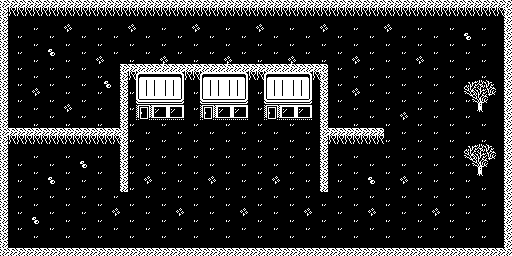
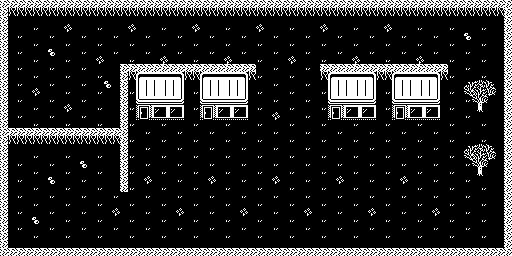
more level work

Changed region(s): [[0.5, 0.25, 0.875, 0.75], [0.7188, 0.6875, 0.75, 0.7188]]

diff --git a/VLQP_AB/level.h b/VLQP_AB/level.h
@@ -321,7 +321,7 @@ PROGMEM const unsigned char maps[16][16] = {
   }, {
     // map 02
     0x01, 0x11, 0x11, 0x12,
-    0x35, 0xFF, 0xF3, 0x4E,
+    0x35, 0xFF, 0x4F, 0xFE,
     0x02, 0x44, 0x40, 0x4E,
     0x67, 0x77, 0x77, 0x78,
   }, {
